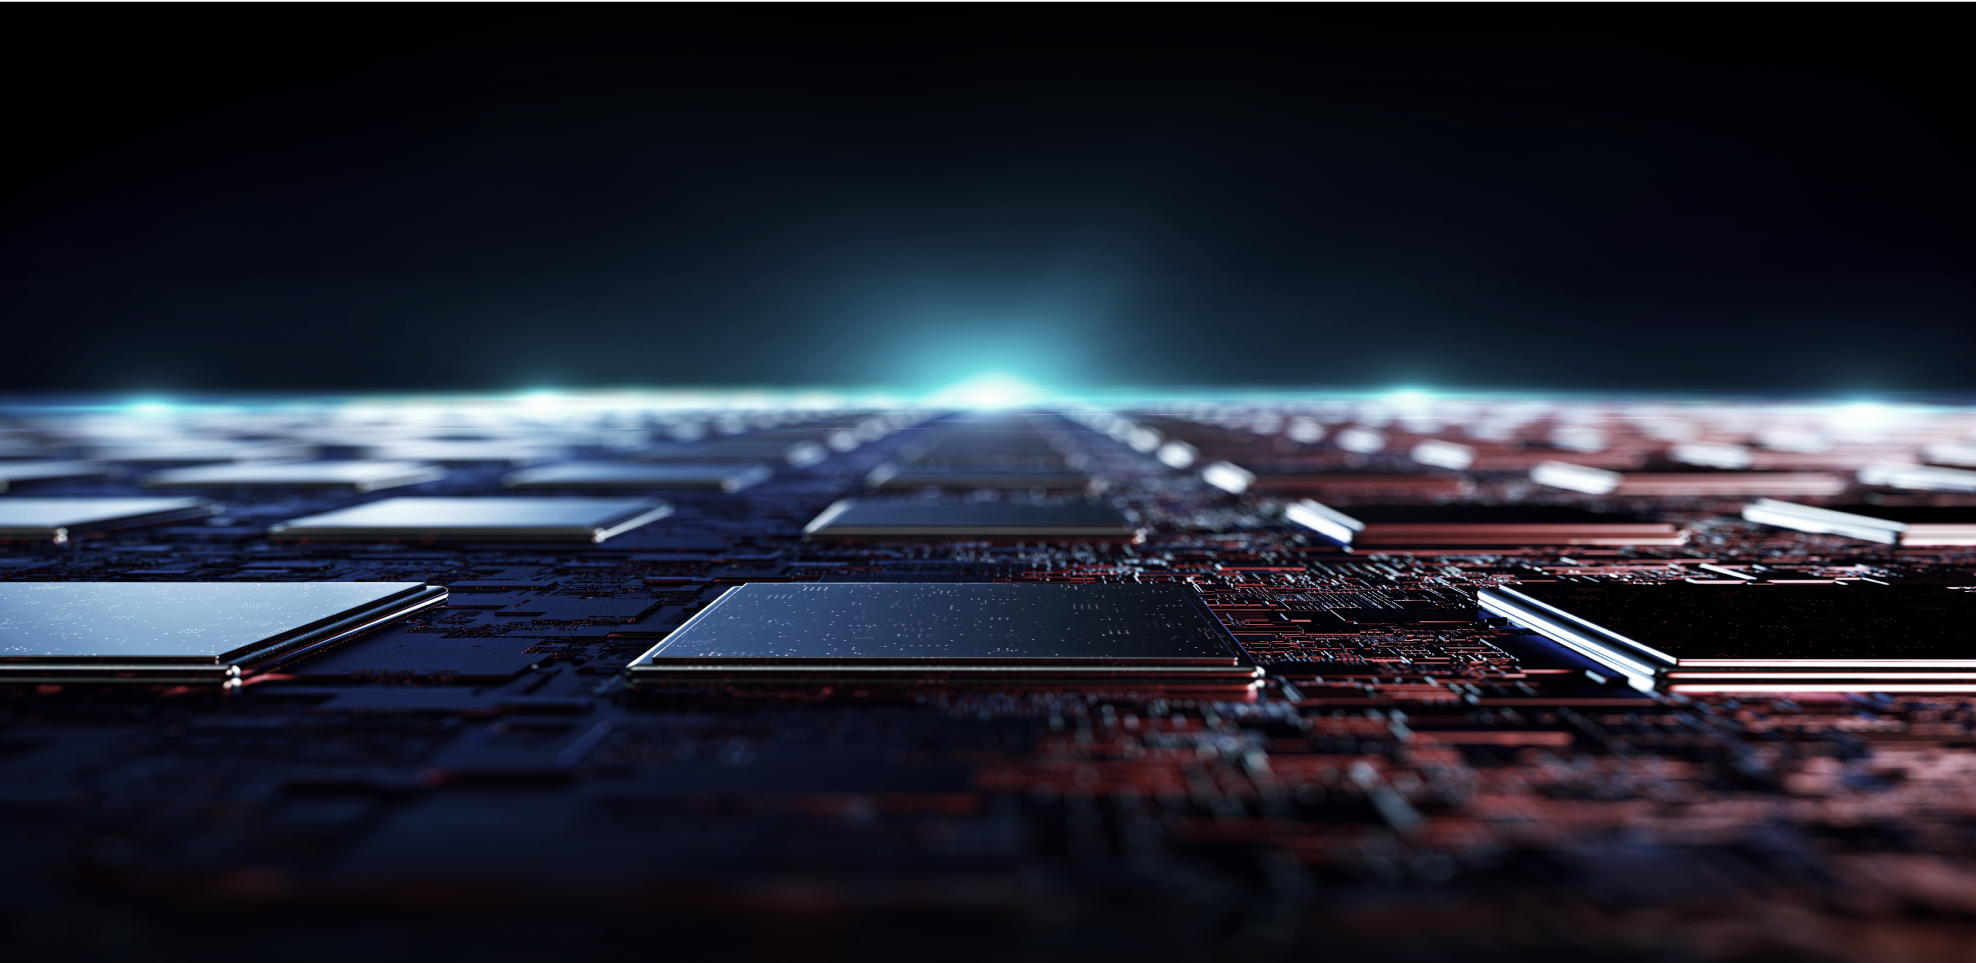
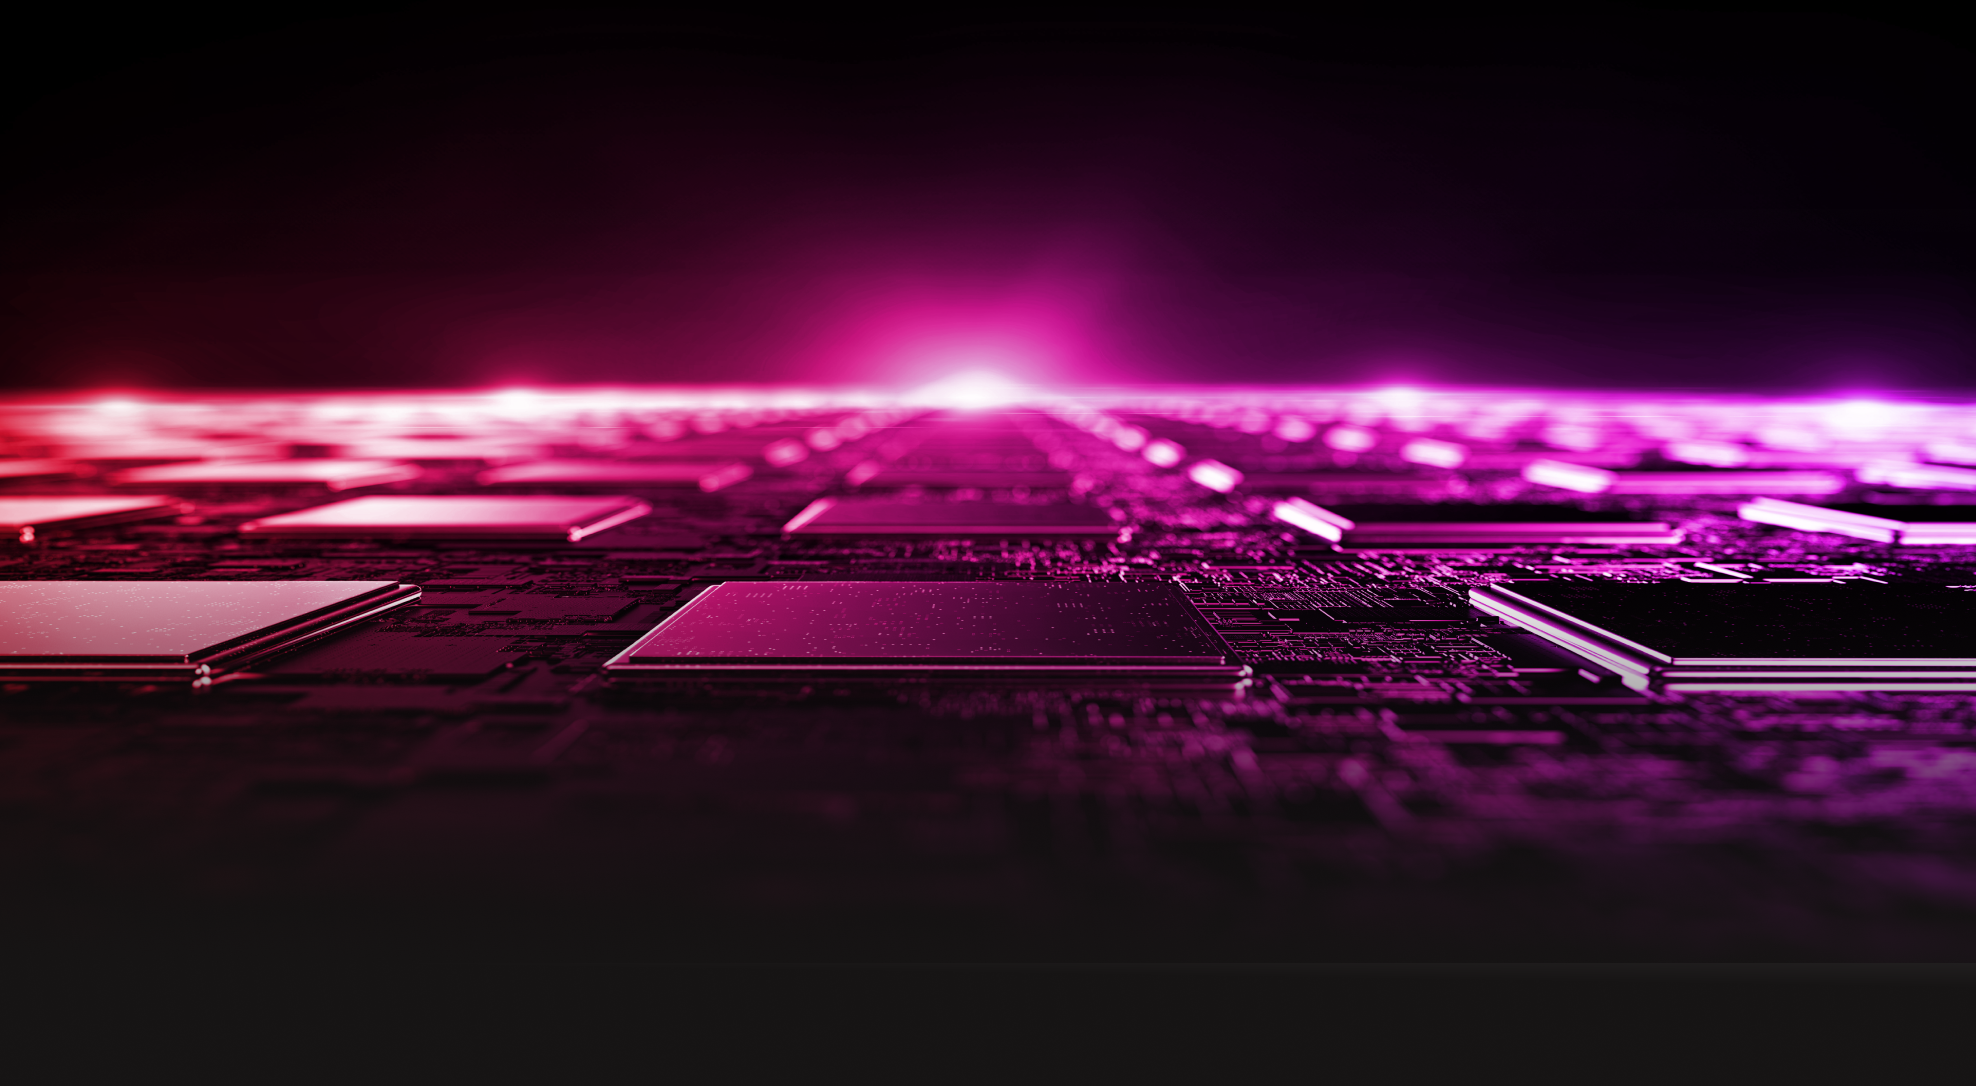
Fix mobile scroll + bgs and images

diff --git a/src/pages/Main/styled.jsx b/src/pages/Main/styled.jsx
@@ -1,9 +1,10 @@
 import styled from '@emotion/styled';
+import { mediaMax } from '../../shared/libs/media';
+import { TextGradient } from '../../shared/styles/theme';
 
 export const Wrapper = styled.div`
   width: 100%;
   height: 100%;
-  background: #1d1d1d;
   color: #ffffff;
 `;
 
@@ -19,7 +20,10 @@ export const HeaderWrap = styled.div`
   background-size: auto 100%;
   background-repeat: no-repeat;
   background-position: center;
-  background-color: #000000;
+
+  ${mediaMax.m} {
+    background-position: center 263px;
+  }
 `;
 
 export const FooterWrap = styled.div``;
@@ -35,7 +39,7 @@ export const Button = styled.a`
 
   padding: 8px 32px;
 
-  background: linear-gradient(90deg, #f70d29 0%, #ec03ff 100%);
+  background-image: linear-gradient(90deg, #f70d29 0%, #ec03ff 100%);
   border-radius: 35px;
 
   cursor: pointer;
@@ -49,31 +53,22 @@ export const Button = styled.a`
   }
 `;
 
-export const ButtonWhite = styled.a`
-  color: #fff;
+export const ButtonWhite = styled(Button)`
+  position: relative;
+  width: fit-content;
+  background-color: #ffffff;
+  ${TextGradient()}
 
-  text-align: center;
-  font-size: 16.709px;
-  font-weight: 700;
-  line-height: 110%; /* 18.38px */
-  text-transform: uppercase;
-
-  padding: 8px 32px;
-
-  background: linear-gradient(90deg, #f70d29 0%, #ec03ff 100%);
-  background-clip: text;
-  -webkit-background-clip: text;
-  -webkit-text-fill-color: transparent;
-  border-radius: 35px;
-
-  cursor: pointer;
-
-  :hover {
-    opacity: 0.9;
-  }
-
-  :active {
-    opacity: 0.7;
+  ::before {
+    content: '';
+    position: absolute;
+    top: 0;
+    left: 0;
+    min-width: 100%;
+    height: 100%;
+    background-color: #ffffff;
+    border-radius: 35px;
+    z-index: -1;
   }
 `;
 

diff --git a/src/pages/Main/ui/ManVsMachine/styled.jsx b/src/pages/Main/ui/ManVsMachine/styled.jsx
@@ -7,40 +7,11 @@ export const Wrapper = styled.div`
   min-height: 605px;
   padding-top: 60px;
   padding-bottom: 35px;
-  background-image: url('/images/man-vs-machine-bg-2.png');
+  background-color: #000000;
+  background-image: url('/images/man-vs-machine-bg.png');
   background-size: 100% auto;
   background-position: 100%;
   background-repeat: no-repeat;
-
-  /* ::before,
-  ::after {
-    content: '';
-    position: absolute;
-    width: 100%;
-    height: 100%;
-    top: 0;
-    left: 0;
-  }
-
-  ::before {
-    background: linear-gradient(90deg, #f70d29 0%, #ec03ff 100%);
-    opacity: 0.8;
-    mix-blend-mode: color;
-    z-index: 8;
-  }
-
-  ::after {
-    top: 57%;
-    height: 339px;
-    background: linear-gradient(
-      183deg,
-      rgba(22, 20, 20, 0) -9.78%,
-      rgba(22, 20, 20, 0.76) 39.76%,
-      #161414 62.53%
-    );
-    mix-blend-mode: color;
-    z-index: 9;
-  } */
 `;
 
 export const Content = styled.div`
@@ -51,23 +22,6 @@ export const Content = styled.div`
 export const TitleWrap = styled.div`
   position: relative;
   z-index: 10;
-
-  ::before {
-    content: '';
-    position: absolute;
-    width: 100vw;
-    height: 150px;
-    top: -60px;
-    left: 0;
-    background: linear-gradient(
-      178deg,
-      rgba(22, 20, 20, 0) 17%,
-      rgba(9, 8, 8, 0.6) 51.87%,
-      #010000 74.11%
-    );
-    transform: rotate(180deg);
-    z-index: -1;
-  }
 `;
 
 export const Title = styled(GradientTitle)`
@@ -75,7 +29,7 @@ export const Title = styled(GradientTitle)`
   font-weight: 700;
   line-height: 130%; /* 76.7px */
 
-  color: #000000;
+  color: #161414;
 `;
 
 export const Subtitle = styled.p`

diff --git a/src/pages/Main/ui/Members/index.jsx b/src/pages/Main/ui/Members/index.jsx
@@ -1,8 +1,9 @@
 import { GradientTitle } from '../../../../shared/ui/GradientTitle';
 import { Layout } from '../../styled';
 import {
-  CardWrapper,
   Wrapper,
+  MembersWrap,
+  CardWrapper,
   Image,
   Name,
   Description,
@@ -46,16 +47,18 @@ export const Members = () => {
   return (
     <Wrapper>
       <Layout>
-        <GradientTitle>members of the jury</GradientTitle>
-        <Cards>
-          {teamMembers.map((item) => (
-            <CardWrapper key={item.name}>
-              <Image src={item.imgSrc} />
-              <Name>{item.name}</Name>
-              <Description>{item.description}</Description>
-            </CardWrapper>
-          ))}
-        </Cards>
+        <MembersWrap>
+          <GradientTitle>members of the jury</GradientTitle>
+          <Cards>
+            {teamMembers.map((item) => (
+              <CardWrapper key={item.name}>
+                <Image src={item.imgSrc} />
+                <Name>{item.name}</Name>
+                <Description>{item.description}</Description>
+              </CardWrapper>
+            ))}
+          </Cards>
+        </MembersWrap>
       </Layout>
     </Wrapper>
   );

diff --git a/src/pages/Main/ui/Faq/styled.jsx b/src/pages/Main/ui/Faq/styled.jsx
@@ -1,5 +1,6 @@
 import styled from '@emotion/styled';
 import { mediaMax } from '../../../../shared/libs/media';
+import { ButtonWhite } from '../../styled';
 
 export const Wrapper = styled.div`
   max-width: 630px;
@@ -22,6 +23,7 @@ export const Title = styled.h1`
 `;
 
 export const IdeaWrap = styled.div`
+  position: relative;
   max-width: 360px;
   height: 167px;
   padding: 21px 24px 42px;
@@ -31,6 +33,7 @@ export const IdeaWrap = styled.div`
   border-radius: 40px;
   border-top-right-radius: 0;
   background: linear-gradient(90deg, #f70d29 0%, #ec03ff 100%);
+  /* z-index: -1; */
 `;
 
 export const IdeaText = styled.p`
@@ -49,4 +52,14 @@ export const IdeaText = styled.p`
   > strong {
     font-weight: 800;
   }
+`;
+
+export const CtaButton = styled(ButtonWhite)`
+  position: absolute;
+  display: block;
+  margin: 0 auto;
+  /* margin-top: 27px; */
+  top: 90%;
+  left: 50%;
+  transform: translateX(-50%);
 `;

diff --git a/src/pages/Main/ui/Faq/index.jsx b/src/pages/Main/ui/Faq/index.jsx
@@ -2,7 +2,7 @@ import { AccordionParent, Collapse } from '../../../../shared/ui/Accordion';
 import { GradientTitle } from '../../../../shared/ui/GradientTitle';
 import { Layout } from '../../styled';
 
-import { Wrapper, Accordion, IdeaWrap, IdeaText } from './styled';
+import { Wrapper, Accordion, IdeaWrap, IdeaText, CtaButton } from './styled';
 
 let accordionItems = [
   {
@@ -66,6 +66,7 @@ export const Faq = () => {
           <IdeaText>
             Have an <strong>AI</strong>dea already?
           </IdeaText>
+          {/* <CtaButton>Register here</CtaButton> */}
         </IdeaWrap>
       </Layout>
     </Wrapper>

diff --git a/src/pages/Main/ui/Members/styled.jsx b/src/pages/Main/ui/Members/styled.jsx
@@ -2,6 +2,27 @@ import styled from '@emotion/styled';
 import { mediaMax } from '../../../../shared/libs/media';
 
 export const Wrapper = styled.div`
+  position: relative;
+  margin: 70px auto 0 auto;
+
+  /* ::before {
+    content: '';
+    position: absolute;
+    width: 100vw;
+    height: 241px;
+    top: -300px;
+    left: 0;
+    background: linear-gradient(
+      178deg,
+      rgba(22, 20, 20, 0) 9.84%,
+      #161414 76.94%
+    );
+    transform: rotate(180deg);
+    z-index: -1;
+  } */
+`;
+
+export const MembersWrap = styled.div`
   max-width: 800px;
   margin: 70px auto 0 auto;
 `;

diff --git a/src/pages/Main/ui/Hero/index.jsx b/src/pages/Main/ui/Hero/index.jsx
@@ -1,4 +1,5 @@
 import HackathonIcon from './images/hackathon.svg';
+import HackathonMobIcon from './images/hackathon-mob.svg';
 
 import { Layout, Button } from '../../styled';
 
@@ -19,6 +20,7 @@ export default function Hero() {
         <ContentWrap>
           <LogoWrap>
             <HackathonIcon viewBox="0 0 514 79" />
+            <HackathonMobIcon viewBox="0 0 162 287" />
           </LogoWrap>
           <TextWrap>
             <Title>Compete in Cyprus&apos; BIGGEST HackAIthon.</Title>

diff --git a/src/shared/styles/theme.js b/src/shared/styles/theme.js
@@ -12,7 +12,7 @@ export const BorderGradient = ({ radius }) => css`
 `;
 
 export const TextGradient = () => css`
-  background: linear-gradient(90deg, #f70d29 0%, #ec03ff 100%);
+  background-image: linear-gradient(90deg, #f70d29 0%, #ec03ff 100%);
   background-clip: text;
   -webkit-background-clip: text;
   -webkit-text-fill-color: transparent;

diff --git a/src/pages/Main/ui/Hero/styled.jsx b/src/pages/Main/ui/Hero/styled.jsx
@@ -18,9 +18,21 @@ export const LogoWrap = styled.p`
   width: fit-content;
   margin-bottom: 175px;
 
+  > svg:nth-child(2) {
+    display: none;
+  }
+
   ${mediaMax.m} {
     > svg {
       width: 100%;
+    }
+
+    > svg:first-of-type {
+      display: none;
+    }
+
+    > svg:nth-child(2) {
+      display: flex;
     }
   }
 `;

diff --git a/src/shared/ui/Header/styled.jsx b/src/shared/ui/Header/styled.jsx
@@ -3,11 +3,10 @@ import { mediaMax, mediaMin } from '../../libs/media';
 
 export const TopWrap = styled.div`
   .bm-menu {
-    background: #1d1d1d;
+    background: #161414;
     padding: 48px 32px;
   }
 `;
-
 
 export const Wrapper = styled.div``;
 

diff --git a/src/pages/Main/ui/Challenge/styled.jsx b/src/pages/Main/ui/Challenge/styled.jsx
@@ -6,6 +6,7 @@ export const Wrapper = styled.div`
   flex-direction: column;
   align-items: center;
   padding: 33px 0 36px;
+  /* background-color: #000000; */
 `;
 
 export const ChallengeBlock = styled.div`

diff --git a/src/pages/Main/ui/Prizes/styled.jsx b/src/pages/Main/ui/Prizes/styled.jsx
@@ -104,5 +104,5 @@ export const PrizeText = styled(GradientTitle)`
   letter-spacing: 3px;
 
   -webkit-text-stroke: 5px transparent;
-  color: #000000;
+  color: #161414;
 `;
